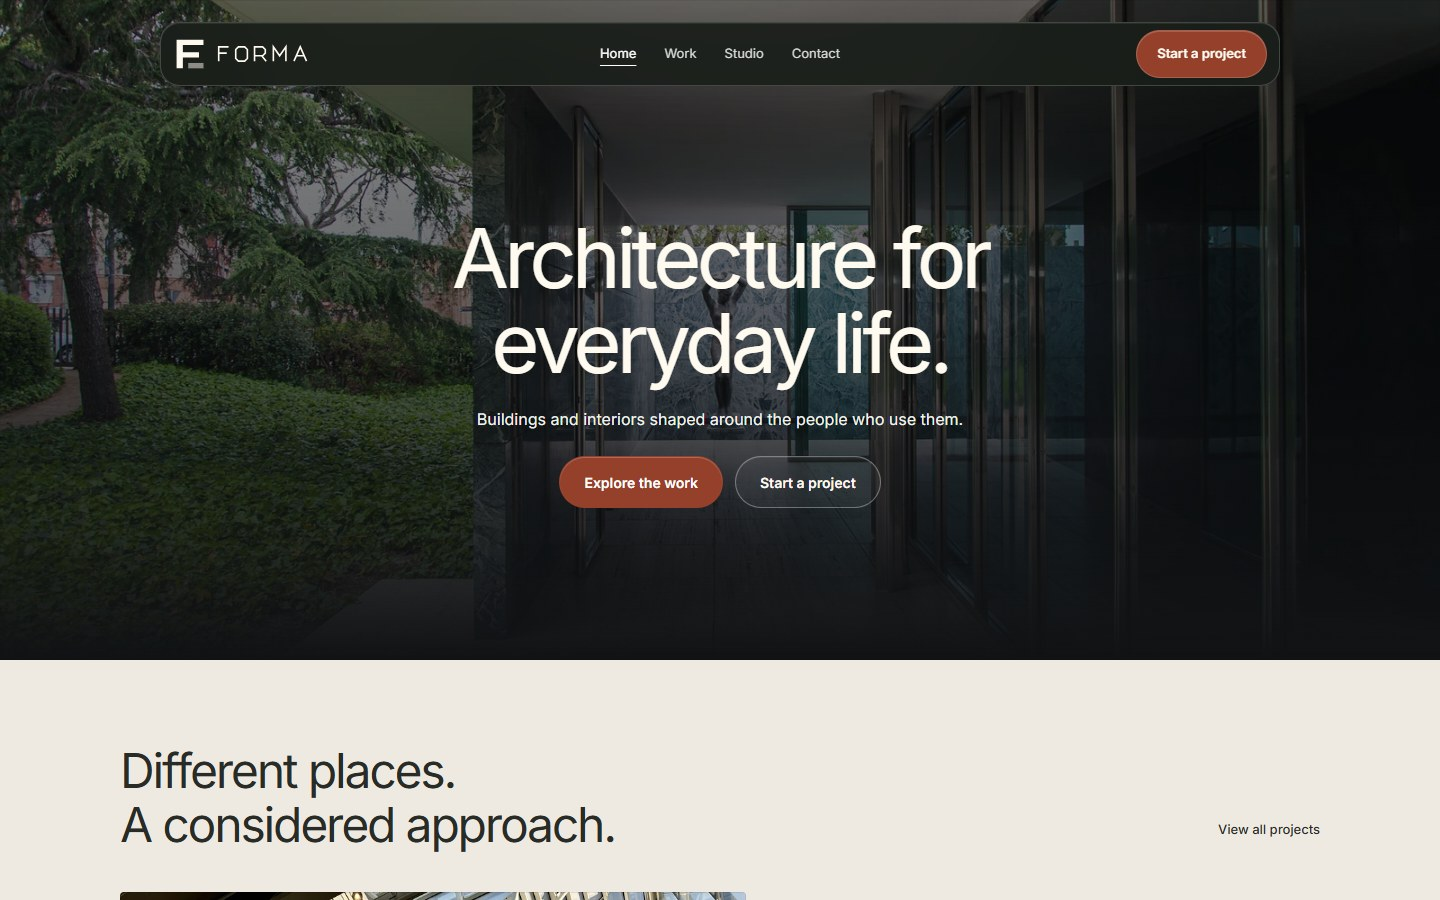
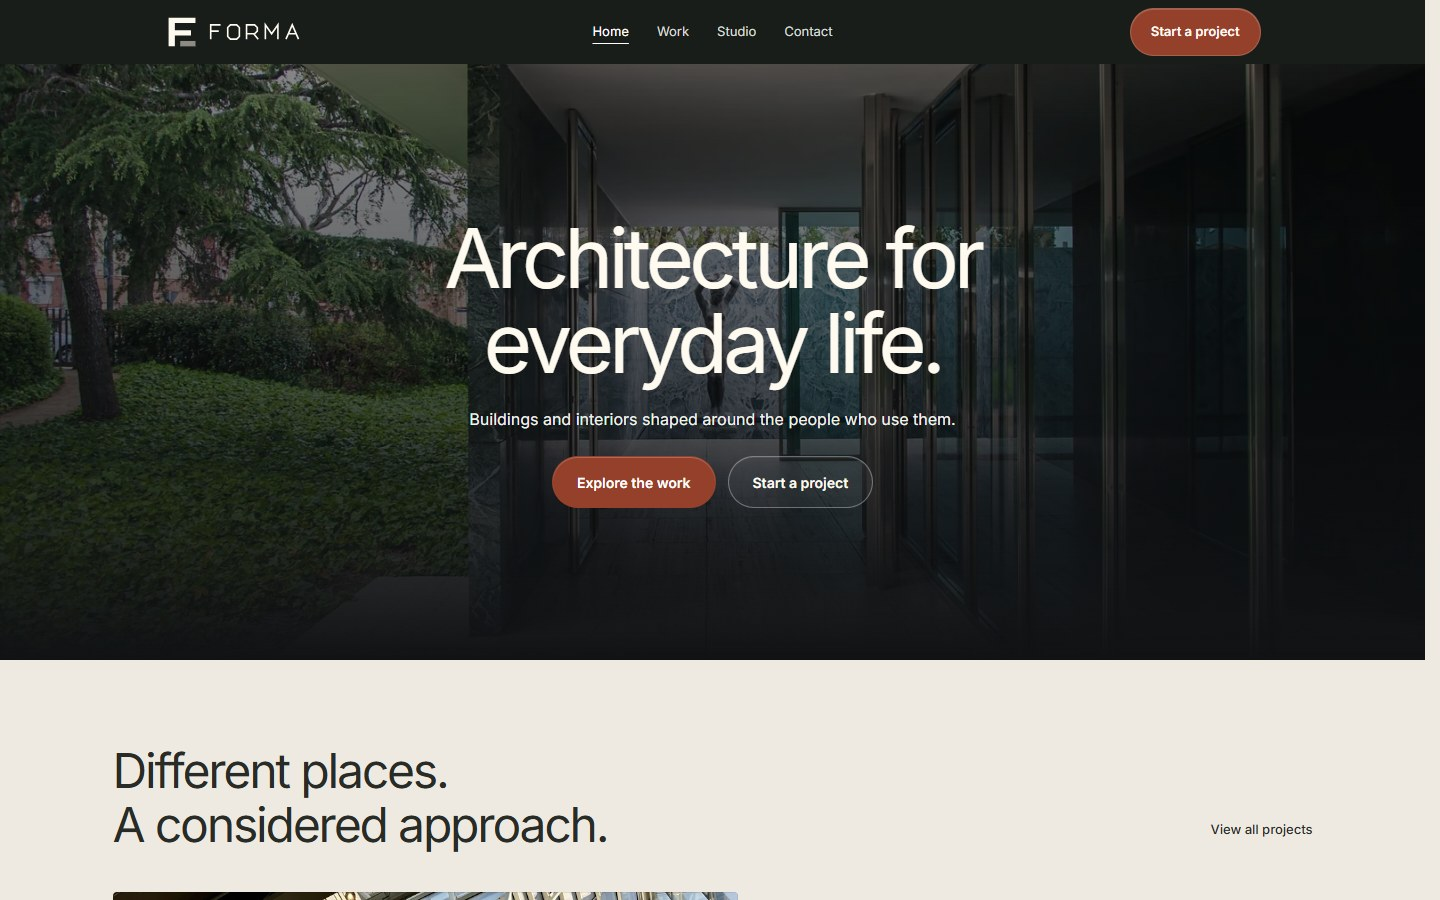
Use a full-width non-sticky header

diff --git a/src/styles.css b/src/styles.css
@@ -881,10 +881,10 @@ h2:focus {
 }
 
 .header-shell {
-  position: fixed;
-  inset: max(22px, env(safe-area-inset-top)) 0 auto;
-  /* Match the body's scrollbar compensation while a select locks scrolling. */
-  right: var(--removed-body-scroll-bar-size, 0px);
+  position: absolute;
+  inset: 0 0 auto;
+  padding-top: env(safe-area-inset-top);
+  background: var(--nav-solid);
   z-index: 20;
   padding-inline: max(32px, env(safe-area-inset-left)) max(32px, env(safe-area-inset-right));
   color: #f8f6f0;
@@ -898,20 +898,10 @@ h2:focus {
   justify-content: space-between;
   gap: 16px;
   padding: 6px 12px;
-  border: 1px solid #dfe6ed33;
-  border-radius: 20px;
-  background: var(--nav-solid);
-  box-shadow:
-    inset 0 1px 0 #ffffff12,
-    0 18px 56px #00000029;
+  border: 0;
+  border-radius: 0;
+  background: transparent;
   grid-template-columns: minmax(0, 1fr) auto minmax(0, 1fr);
-}
-@supports (backdrop-filter: blur(1px)) {
-  .site-header {
-    background: var(--nav-glass);
-    backdrop-filter: blur(24px);
-    -webkit-backdrop-filter: blur(24px);
-  }
 }
 .site-header .wordmark {
   display: inline-flex;
@@ -974,10 +964,6 @@ h2:focus {
   outline: 2px solid #f0d1a4;
   outline-offset: 2px;
 }
-.header-shell:focus-within {
-  transform: translateY(0);
-  transition: none;
-}
 @media (hover: hover) and (pointer: fine) {
   .desktop-nav a:hover {
     background: #ffffff0c;
@@ -992,7 +978,6 @@ h2:focus {
 }
 @media (max-width: 899px) {
   .header-shell {
-    top: max(16px, env(safe-area-inset-top));
     padding-inline: max(20px, env(safe-area-inset-left)) max(20px, env(safe-area-inset-right));
   }
   .site-header {
@@ -1057,13 +1042,9 @@ h2:focus {
     text-decoration: underline;
     text-underline-offset: 5px;
   }
-  .header-shell[data-scroll-hidden='true']:not(:focus-within) {
-    transform: translateY(calc(-100% - 24px));
-  }
 }
 @media (max-width: 359px) {
   .header-shell {
-    top: max(8px, env(safe-area-inset-top));
     padding-inline: max(8px, env(safe-area-inset-left)) max(8px, env(safe-area-inset-right));
   }
   .site-header {
@@ -1083,11 +1064,6 @@ h2:focus {
     overflow: hidden;
     clip-path: inset(50%);
     white-space: nowrap;
-  }
-}
-@media (prefers-reduced-motion: no-preference) {
-  .header-shell:not(:focus-within) {
-    transition: transform 220ms cubic-bezier(0.22, 1, 0.36, 1);
   }
 }
 

diff --git a/src/components/Header.tsx b/src/components/Header.tsx
@@ -10,7 +10,6 @@ const links = [
 
 export function Header() {
   const [open, setOpen] = useState(false)
-  const [scrollHidden, setScrollHidden] = useState(false)
   const header = useRef<HTMLElement>(null)
   const toggle = useRef<HTMLButtonElement>(null)
 
@@ -36,7 +35,6 @@ export function Header() {
     const media = window.matchMedia('(min-width: 900px)')
     const close = () => {
       setOpen(false)
-      setScrollHidden(false)
     }
     media.addEventListener('change', close)
     return () => media.removeEventListener('change', close)
@@ -52,37 +50,12 @@ export function Header() {
   }, [open])
 
   useEffect(() => {
-    const media = window.matchMedia('(max-width: 899px)')
-    let last = Math.max(0, window.scrollY)
-    let distance = 0
+    if (!open) return
     const onScroll = () => {
-      const current = Math.max(0, window.scrollY)
-      const delta = current - last
-      last = current
-      if (media.matches && open && delta !== 0) {
-        if (document.activeElement?.closest('#mobile-menu')) {
-          toggle.current?.focus({ preventScroll: true })
-        }
-        setOpen(false)
-        setScrollHidden(false)
-        distance = 0
-        return
+      if (document.activeElement?.closest('#mobile-menu')) {
+        toggle.current?.focus({ preventScroll: true })
       }
-      if (
-        !media.matches ||
-        open ||
-        current < 100 ||
-        header.current?.contains(document.activeElement)
-      ) {
-        distance = 0
-        setScrollHidden(false)
-        return
-      }
-      distance = Math.sign(delta) === Math.sign(distance) ? distance + delta : delta
-      if (Math.abs(distance) > 14) {
-        setScrollHidden(distance > 0)
-        distance = 0
-      }
+      setOpen(false)
     }
     window.addEventListener('scroll', onScroll, { passive: true })
     return () => window.removeEventListener('scroll', onScroll)
@@ -96,8 +69,6 @@ export function Header() {
       <header
         ref={header}
         className="header-shell"
-        data-scroll-hidden={scrollHidden && !open}
-        onFocusCapture={() => setScrollHidden(false)}
         onBlur={(event) => {
           if (
             event.relatedTarget instanceof Node &&
